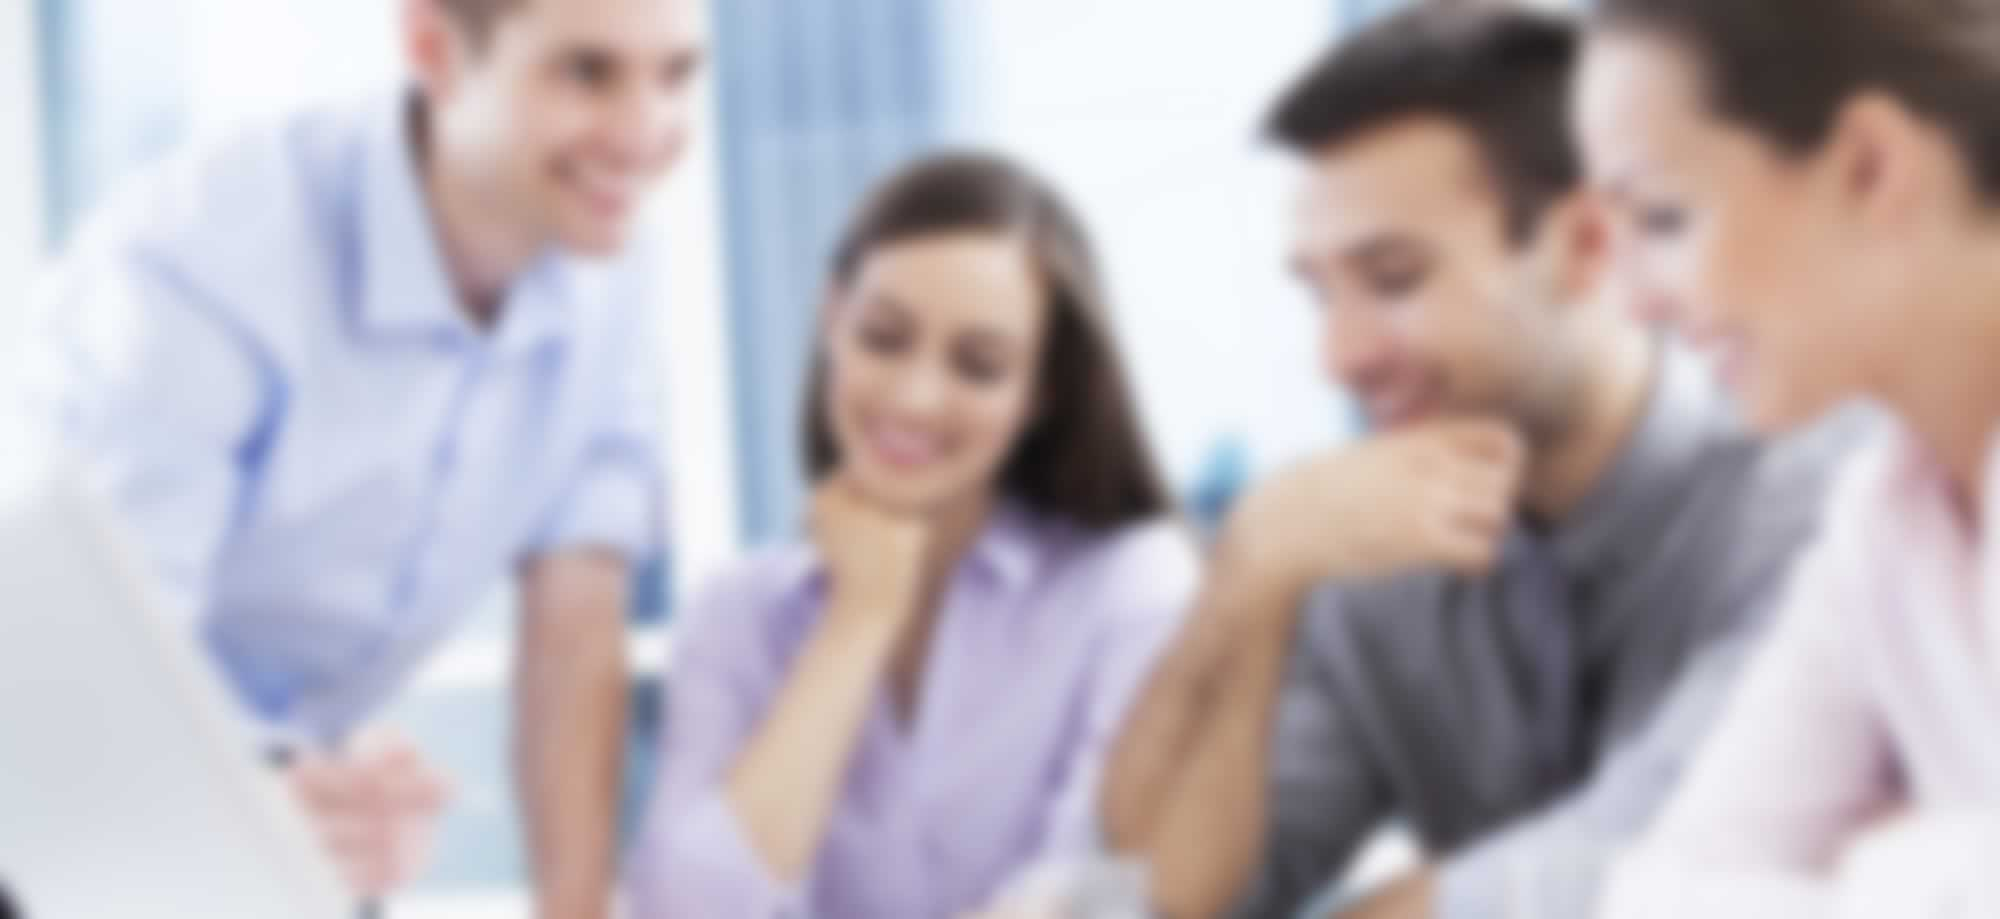
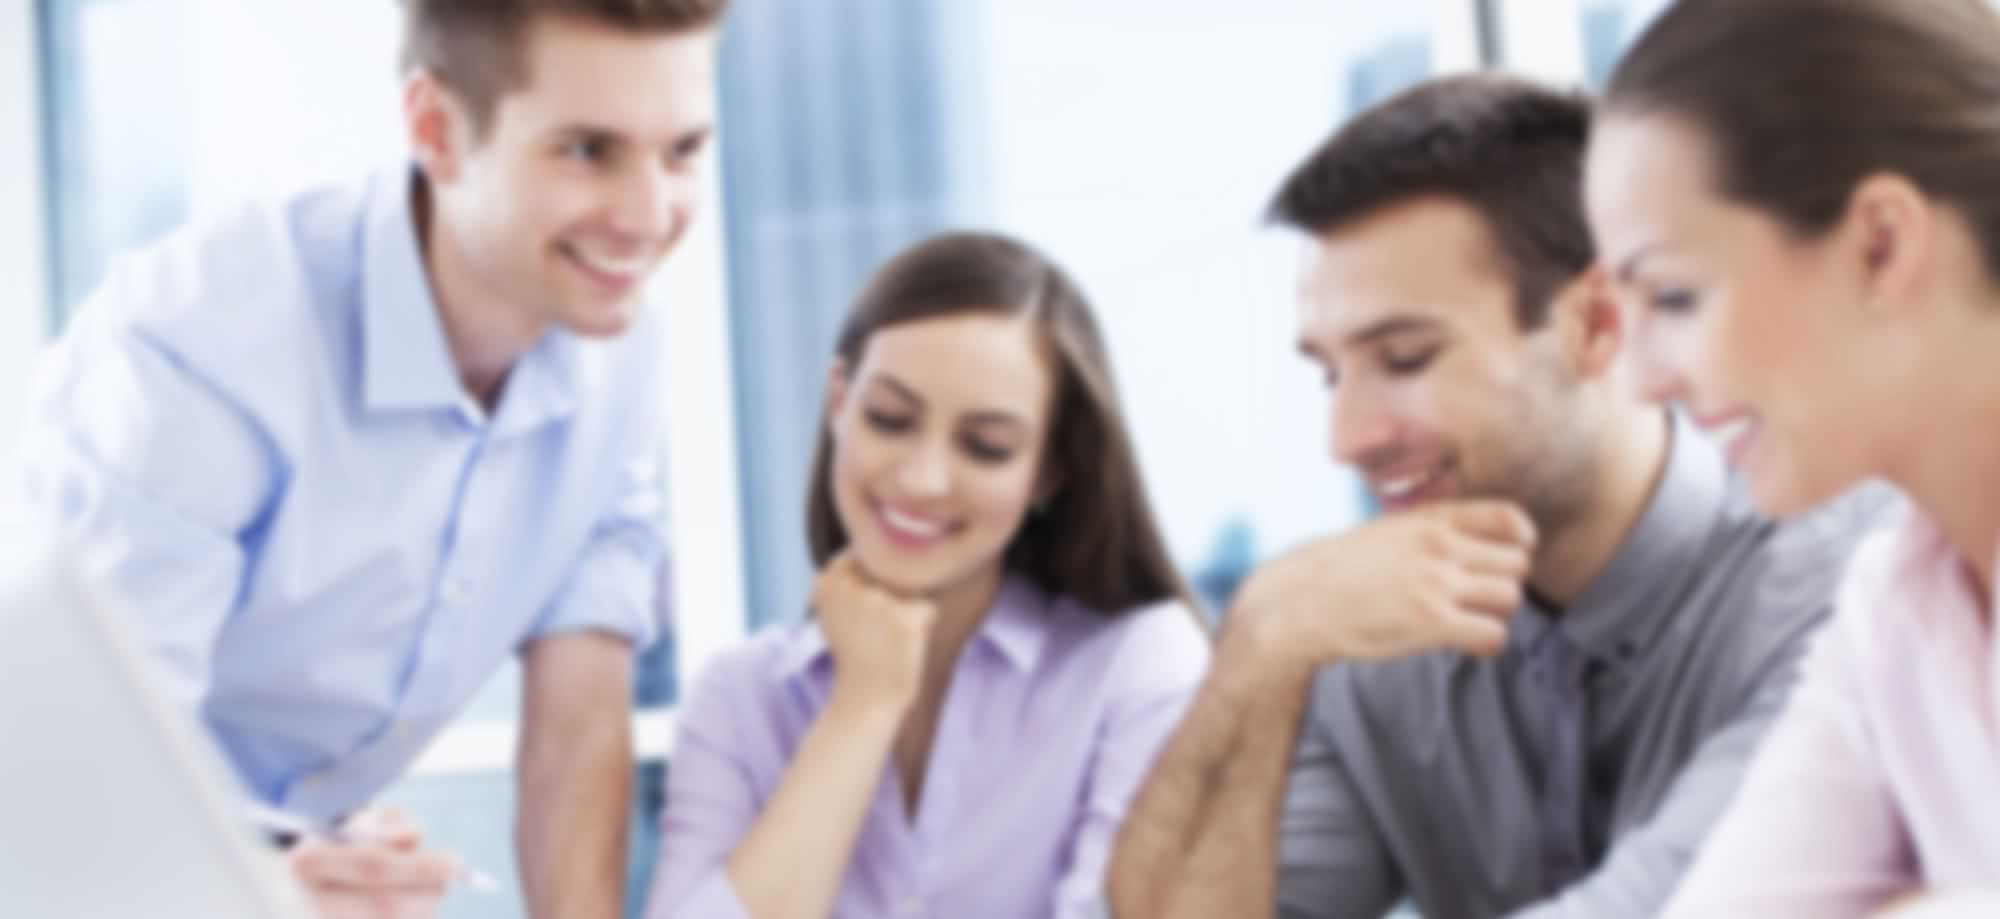
all new images

diff --git a/sfa/_sass/_responsive.scss b/sfa/_sass/_responsive.scss
@@ -203,5 +203,20 @@
 			margin-left: -40px;
 		}
 	}
+	
+	/*full size bg images*/
+
+  .js-carousel-container .bg-industry.slide-0 {
+    background-image: url(/img/industry-business.jpg); }
+  .js-carousel-container .bg-industry.slide-1 {
+    background-image: url(/img/industry-financial.jpg); }
+  .js-carousel-container .bg-industry.slide-2 {
+    background-image: url(/img/industry-ICT.jpg); }
+  .js-carousel-container .bg-industry.slide-3 {
+    background-image: url(/img/industry-education.jpg); }
+  .js-carousel-container .bg-industry.slide-4 {
+    background-image: url(/img/industry-culture.jpg); }
+  .js-carousel-container .bg-industry.slide-5 {
+    background-image: url(/img/industry-print.jpg); }
 
 }
